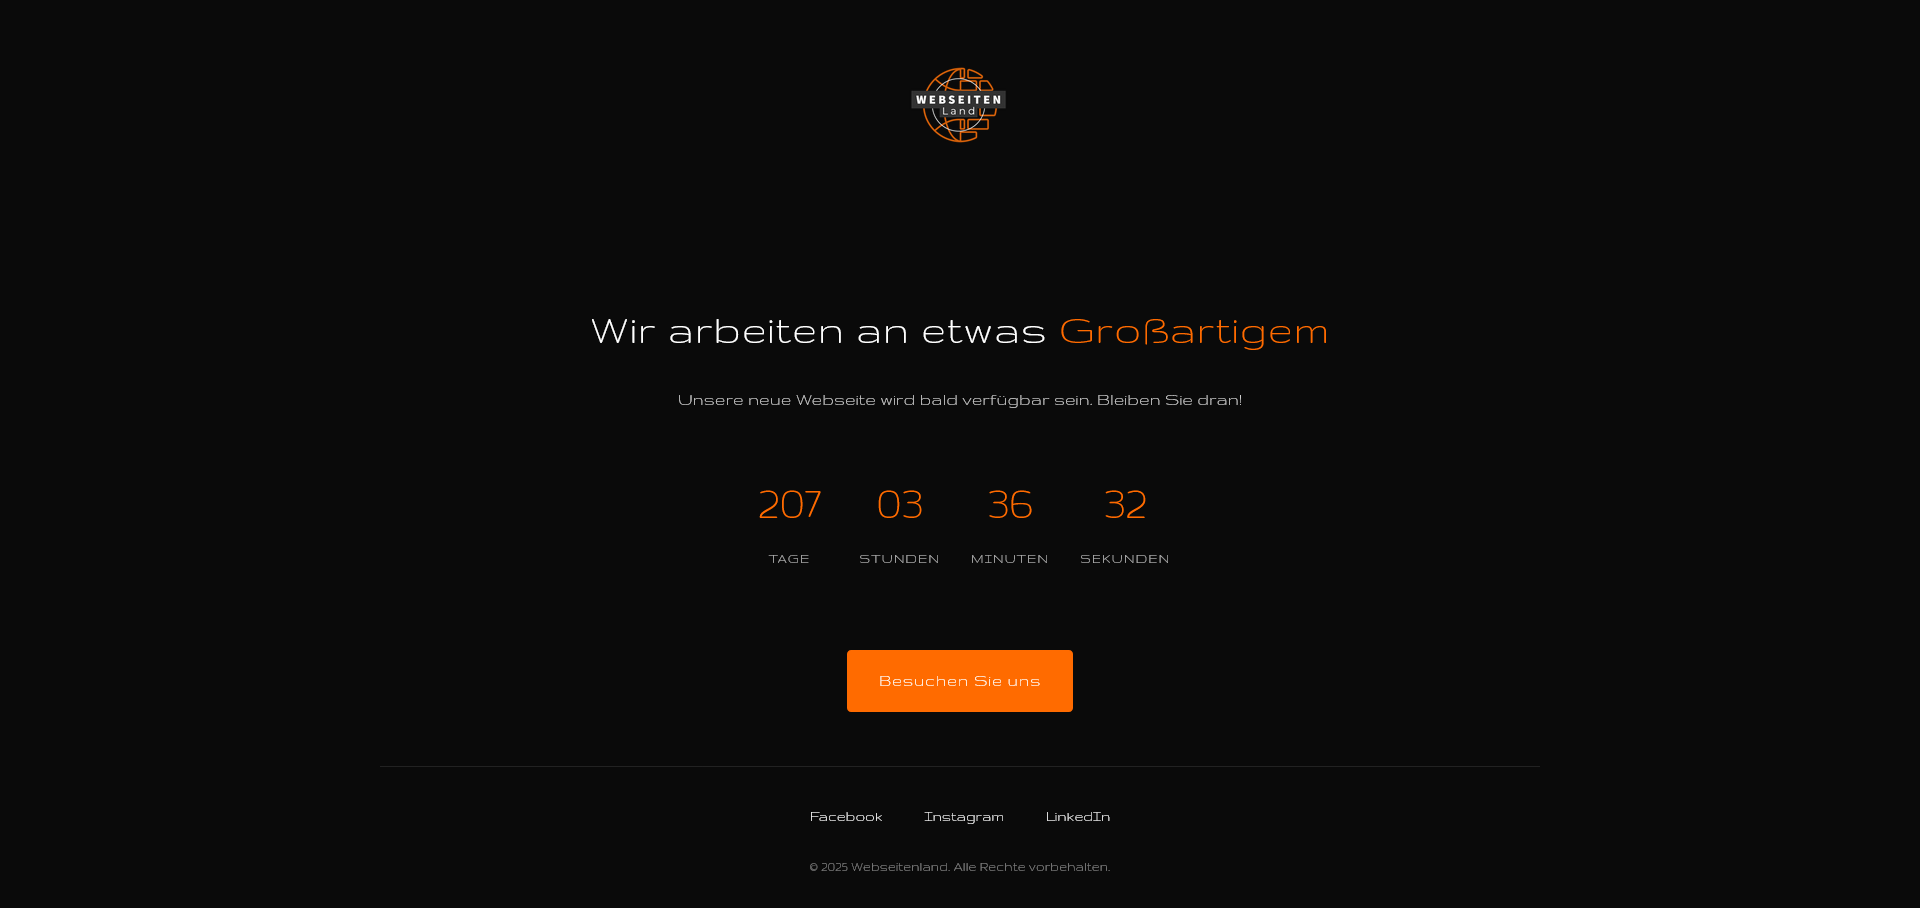
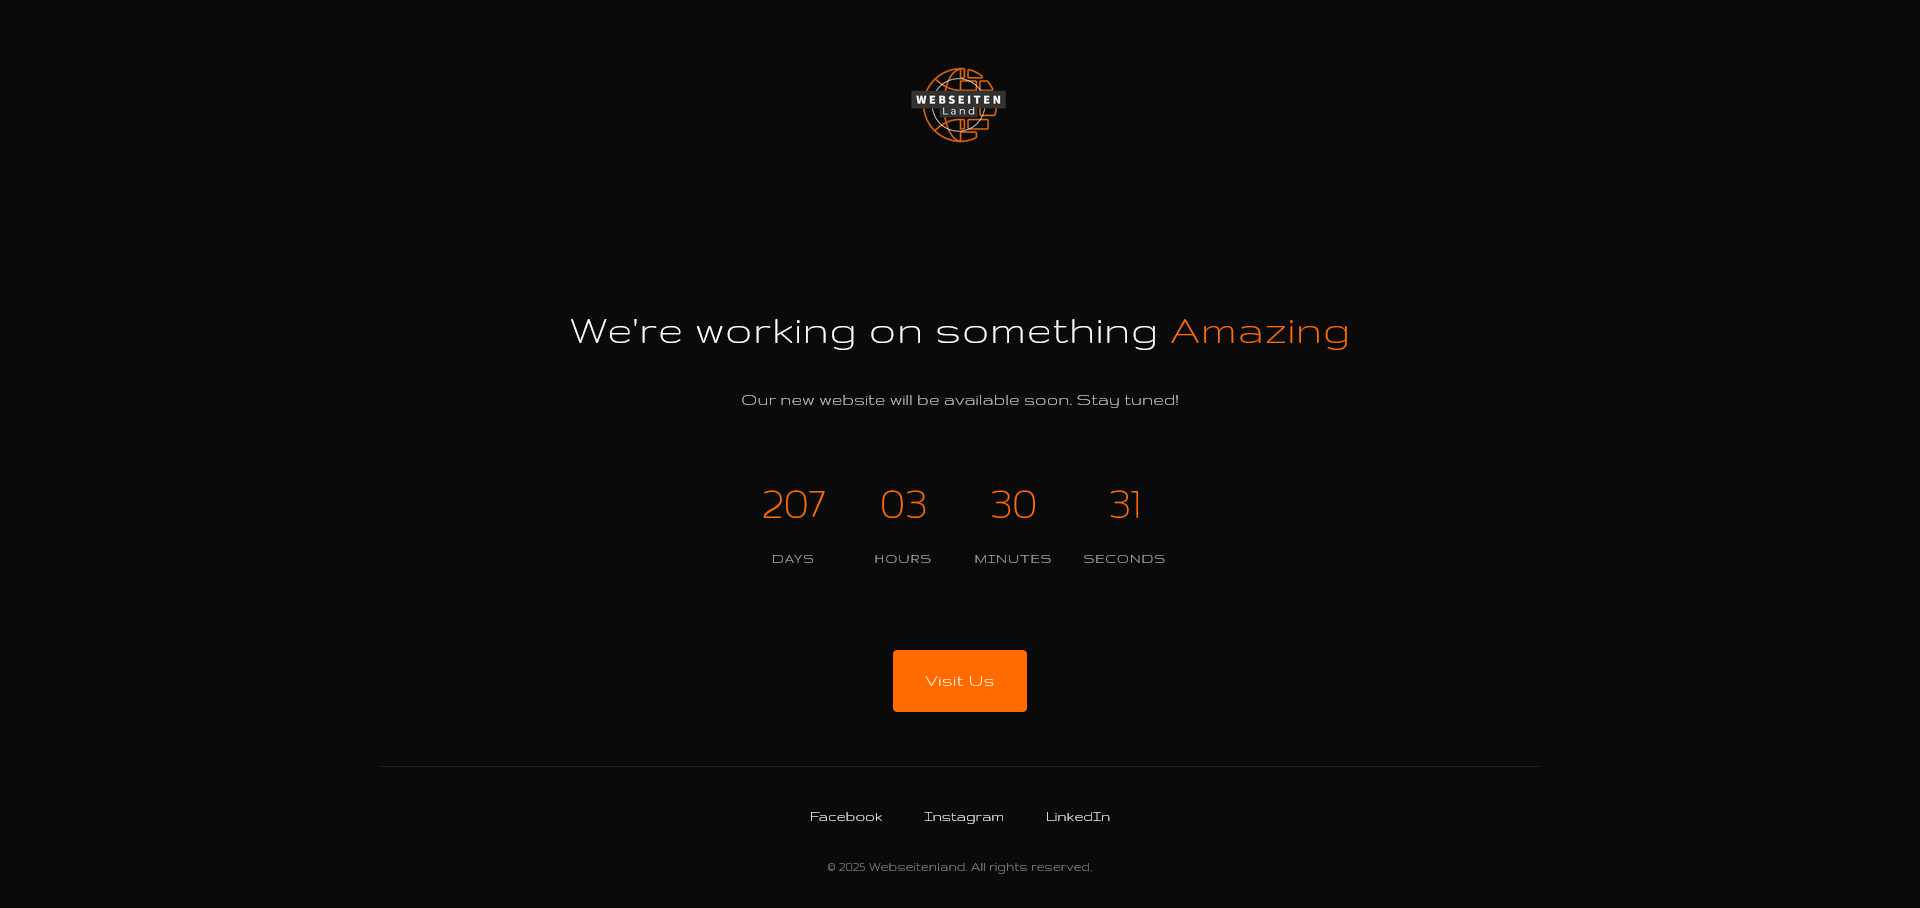
unify language to english

diff --git a/index.html b/index.html
@@ -1,15 +1,15 @@
 <!DOCTYPE html>
-<html lang="de">
+<html lang="en">
 <!-- This website was created with Webseitenland. === Webseitenland - https://webseitenland.de/ === -->
 
 <head>
     <meta charset="UTF-8">
     <meta name="viewport" content="width=device-width, initial-scale=1.0">
-    <title>Coming Soon | Webseitenland - Neue Website in Kürze verfügbar</title>
+    <title>Coming Soon | Webseitenland - New Website Available Soon</title>
     
     <!-- SEO Meta Tags -->
-    <meta name="description" content="Webseitenland arbeitet an einer neuen Website. Bleiben Sie dran für professionelle Webdesign- und Entwicklungsdienstleistungen.">
-    <meta name="keywords" content="Coming Soon, Webseitenland, Webdesign, Website, Entwicklung, Launch">
+    <meta name="description" content="Webseitenland is working on a new website. Stay tuned for professional web design and development services.">
+    <meta name="keywords" content="Coming Soon, Webseitenland, Web Design, Website, Development, Launch">
     <meta name="author" content="Webseitenland">
     <meta name="robots" content="index, follow">
     <meta name="theme-color" content="#121212">
@@ -19,17 +19,17 @@
     
     <!-- Open Graph Meta Tags -->
     <meta property="og:title" content="Coming Soon | Webseitenland">
-    <meta property="og:description" content="Webseitenland arbeitet an einer neuen Website. Bleiben Sie dran für professionelle Webdesign- und Entwicklungsdienstleistungen.">
+    <meta property="og:description" content="Webseitenland is working on a new website. Stay tuned for professional web design and development services.">
     <meta property="og:type" content="website">
     <meta property="og:url" content="https://webseitenland.de/coming-soon">
     <meta property="og:image" content="https://webseitenland.de/coming-soon/images/og-image.jpg">
     <meta property="og:site_name" content="Webseitenland">
-    <meta property="og:locale" content="de_DE">
+    <meta property="og:locale" content="en_US">
     
     <!-- Twitter Card Meta Tags -->
     <meta name="twitter:card" content="summary_large_image">
     <meta name="twitter:title" content="Coming Soon | Webseitenland">
-    <meta name="twitter:description" content="Webseitenland arbeitet an einer neuen Website. Bleiben Sie dran für professionelle Webdesign- und Entwicklungsdienstleistungen.">
+    <meta name="twitter:description" content="Webseitenland is working on a new website. Stay tuned for professional web design and development services.">
     <meta name="twitter:image" content="https://webseitenland.de/coming-soon/images/twitter-card.jpg">
     
     <!-- Preloading and Performance Optimization -->
@@ -57,7 +57,7 @@
         "@type": "WebSite",
         "name": "Webseitenland",
         "url": "https://webseitenland.de",
-        "description": "Webseitenland arbeitet an einer neuen Website. Bleiben Sie dran für professionelle Webdesign- und Entwicklungsdienstleistungen.",
+        "description": "Webseitenland is working on a new website. Stay tuned for professional web design and development services.",
         "publisher": {
             "@type": "Organization",
             "name": "Webseitenland",
@@ -81,7 +81,7 @@
 </head>
 
 <body>
-    <a href="#main-content" class="skip-link">Zum Hauptinhalt springen</a>
+    <a href="#main-content" class="skip-link">Skip to main content</a>
     
     <div class="container" role="document">
         <header role="banner">
@@ -91,30 +91,30 @@
         </header>
 
         <main id="main-content" class="content" role="main">
-            <h1>Wir arbeiten an etwas <span>Großartigem</span></h1>
-            <p>Unsere neue Webseite wird bald verfügbar sein. Bleiben Sie dran!</p>
+            <h1>We're working on something <span>Amazing</span></h1>
+            <p>Our new website will be available soon. Stay tuned!</p>
 
             <div id="countdown-container" class="countdown" aria-live="polite" tabindex="0">
                 <div class="countdown-item">
-                    <span id="days" aria-label="Tage">00</span>
-                    <span class="label">Tage</span>
+                    <span id="days" aria-label="Days">00</span>
+                    <span class="label">Days</span>
                 </div>
                 <div class="countdown-item">
-                    <span id="hours" aria-label="Stunden">00</span>
-                    <span class="label">Stunden</span>
+                    <span id="hours" aria-label="Hours">00</span>
+                    <span class="label">Hours</span>
                 </div>
                 <div class="countdown-item">
-                    <span id="minutes" aria-label="Minuten">00</span>
-                    <span class="label">Minuten</span>
+                    <span id="minutes" aria-label="Minutes">00</span>
+                    <span class="label">Minutes</span>
                 </div>
                 <div class="countdown-item">
-                    <span id="seconds" aria-label="Sekunden">00</span>
-                    <span class="label">Sekunden</span>
+                    <span id="seconds" aria-label="Seconds">00</span>
+                    <span class="label">Seconds</span>
                 </div>
             </div>
 
-            <a href="https://webseitenland.de" class="cta-button" aria-label="Besuchen Sie Webseitenland"
-                target="_blank" rel="noopener">Besuchen Sie uns</a>
+            <a href="https://webseitenland.de" class="cta-button" aria-label="Visit Webseitenland"
+                target="_blank" rel="noopener">Visit Us</a>
         </main>
 
         <footer role="contentinfo">
@@ -123,7 +123,7 @@
                 <a href="#" class="social-icon" aria-label="Instagram">Instagram</a>
                 <a href="#" class="social-icon" aria-label="LinkedIn">LinkedIn</a>
             </div>
-            <p>&copy; <span id="current-year"></span> Webseitenland. Alle Rechte vorbehalten.</p>
+            <p>&copy; <span id="current-year"></span> Webseitenland. All rights reserved.</p>
         </footer>
     </div>
 
@@ -143,7 +143,7 @@
             daysFromNow: 30,
 
             // Text to display when the date is unknown
-            unknownDateText: "Demnächst verfügbar"
+            unknownDateText: "Coming Soon"
         };
 
         // Performance-optimized function for adding events
@@ -184,15 +184,15 @@
             document.getElementById("seconds").innerHTML = seconds.toString().padStart(2, "0");
             
             // Update ARIA labels for screen readers
-            document.getElementById("days").setAttribute("aria-label", `${days} Tage`);
-            document.getElementById("hours").setAttribute("aria-label", `${hours} Stunden`);
-            document.getElementById("minutes").setAttribute("aria-label", `${minutes} Minuten`);
-            document.getElementById("seconds").setAttribute("aria-label", `${seconds} Sekunden`);
+            document.getElementById("days").setAttribute("aria-label", `${days} Days`);
+            document.getElementById("hours").setAttribute("aria-label", `${hours} Hours`);
+            document.getElementById("minutes").setAttribute("aria-label", `${minutes} Minutes`);
+            document.getElementById("seconds").setAttribute("aria-label", `${seconds} Seconds`);
             
             // Set overall ARIA description
             document.getElementById("countdown-container").setAttribute(
                 "aria-label", 
-                `Countdown: ${days} Tage, ${hours} Stunden, ${minutes} Minuten und ${seconds} Sekunden bis zum Launch`
+                `Countdown: ${days} Days, ${hours} Hours, ${minutes} Minutes and ${seconds} Seconds until launch`
             );
             
             // Update document title periodically for better engagement
@@ -228,13 +228,13 @@
 
                 // Announce countdown every 5 minutes for screen readers
                 if (minutes % 5 === 0 && seconds === 0) {
-                    announceToScreenReaders(`Noch ${days} Tage, ${hours} Stunden und ${minutes} Minuten bis zum Launch.`);
+                    announceToScreenReaders(`${days} Days, ${hours} Hours and ${minutes} Minutes until launch.`);
                 }
 
                 if (distance < 0) {
                     clearInterval(countdown);
-                    document.getElementById("countdown-container").innerHTML = "Wir sind bereit!";
-                    announceToScreenReaders("Wir sind bereit! Die Website ist jetzt verfügbar.");
+                    document.getElementById("countdown-container").innerHTML = "We're Ready!";
+                    announceToScreenReaders("We're Ready! The website is now available.");
                 }
             }, 1000);
 
@@ -242,14 +242,14 @@
             setTimeout(function () {
                 const launchDateObj = new Date(countDownDate);
                 const options = { year: 'numeric', month: 'long', day: 'numeric' };
-                const formattedDate = launchDateObj.toLocaleDateString('de-DE', options);
-                announceToScreenReaders(`Countdown läuft bis zum ${formattedDate}.`);
+                const formattedDate = launchDateObj.toLocaleDateString('en-US', options);
+                announceToScreenReaders(`Countdown running until ${formattedDate}.`);
             }, 2000);
 
         } else {
             // If the date is unknown, display alternative text
             document.getElementById("countdown-container").innerHTML = `<p class="unknown-date" tabindex="0">${config.unknownDateText}</p>`;
-            announceToScreenReaders("Das genaue Startdatum ist noch nicht bekannt. Bitte besuchen Sie uns später wieder.");
+            announceToScreenReaders("The exact launch date is not yet known. Please check back later.");
         }
 
         // Keyboard navigation improvements
@@ -260,7 +260,7 @@
 
             // ESC key - announcement for users
             if (e.key === 'Escape') {
-                announceToScreenReaders("Coming Soon Seite von Webseitenland. Verwenden Sie die Tab-Taste zur Navigation.");
+                announceToScreenReaders("Coming Soon page by Webseitenland. Use the Tab key to navigate.");
             }
         });
 
@@ -302,10 +302,10 @@
     <!-- Structured error message for screen readers -->
     <noscript>
         <div class="sr-only">
-            Bitte aktivieren Sie JavaScript, um die volle Funktionalität dieser Seite zu nutzen.
+            Please enable JavaScript to use the full functionality of this page.
         </div>
         <div class="noscript-message">
-            <p>Diese Seite benötigt JavaScript. Bitte aktivieren Sie JavaScript in Ihren Browser-Einstellungen.</p>
+            <p>This page requires JavaScript. Please enable JavaScript in your browser settings.</p>
         </div>
     </noscript>
 </body>

diff --git a/README.md b/README.md
@@ -4,12 +4,11 @@
 
 **Project start date:** June 5, 2025
 
-The contents of this project are protected by copyright.  
-For more information, please refer to the `LICENSE` file.
+The contents of this project are protected by copyright. For more information, please refer to the `LICENSE` file.
 
 > A professionally designed "Coming Soon" page with modern design, countdown functionality, and full accessibility support.
 
-![Screenshot der Webseitenland Coming-Soon-Seite](images/page.png)
+![Screenshot of the Webseitenland Coming Soon page](images/page.png)
 
 ## Features
 
@@ -31,6 +30,7 @@ For more information, please refer to the `LICENSE` file.
 ├── sitemap.xml             # XML sitemap
 ├── site.webmanifest        # Web app manifest
 ├── images/                 # Directory for images
+│   ├── page.png            # Sample Image
 │   ├── logo.png            # Webseitenland logo
 │   └── icons/              # Directory for icons
 │       ├── favicon.ico             # Favicon (main)

diff --git a/CHANGELOG.md b/CHANGELOG.md
@@ -1,1 +1,6 @@
-# 
+# Changelog
+
+## 1.0.0 (Current Version)
+
+- Translated entire project from German to English
+- Initial release of the Coming Soon page 
